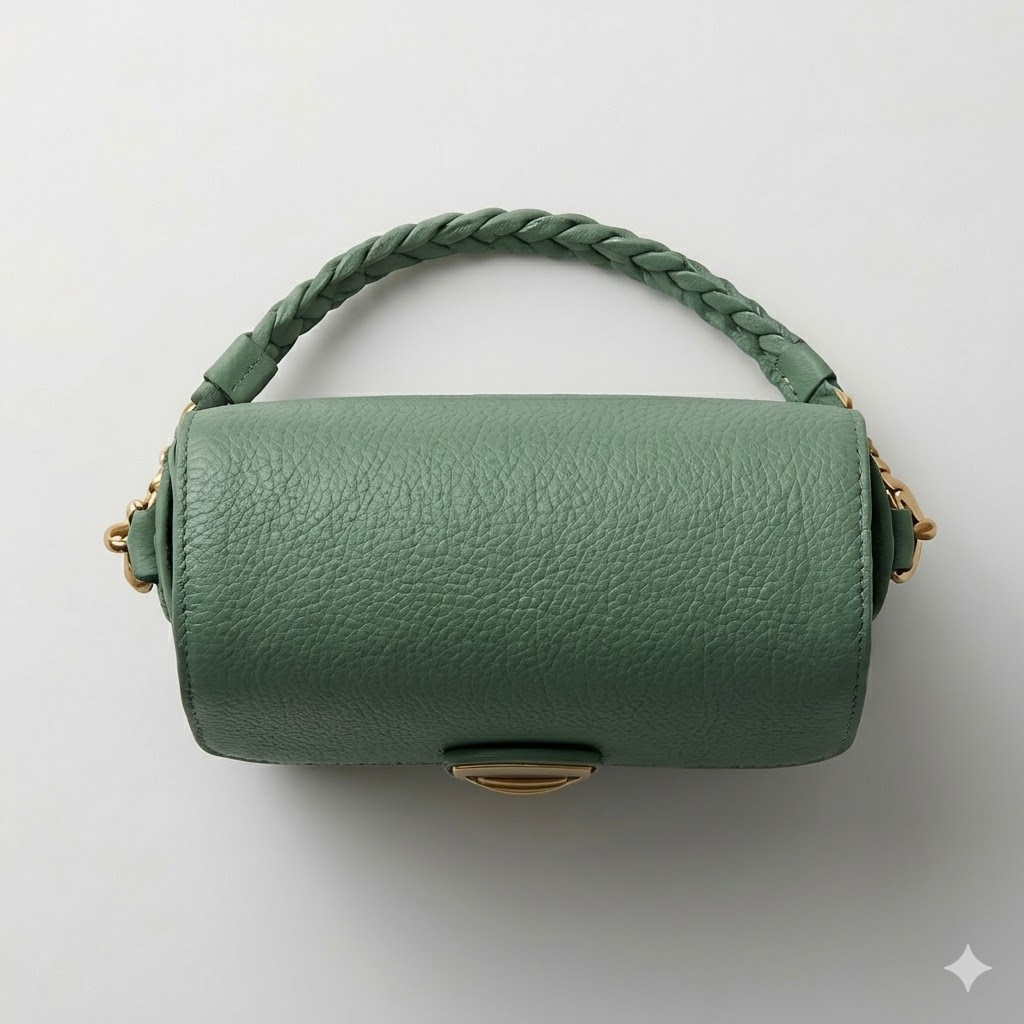
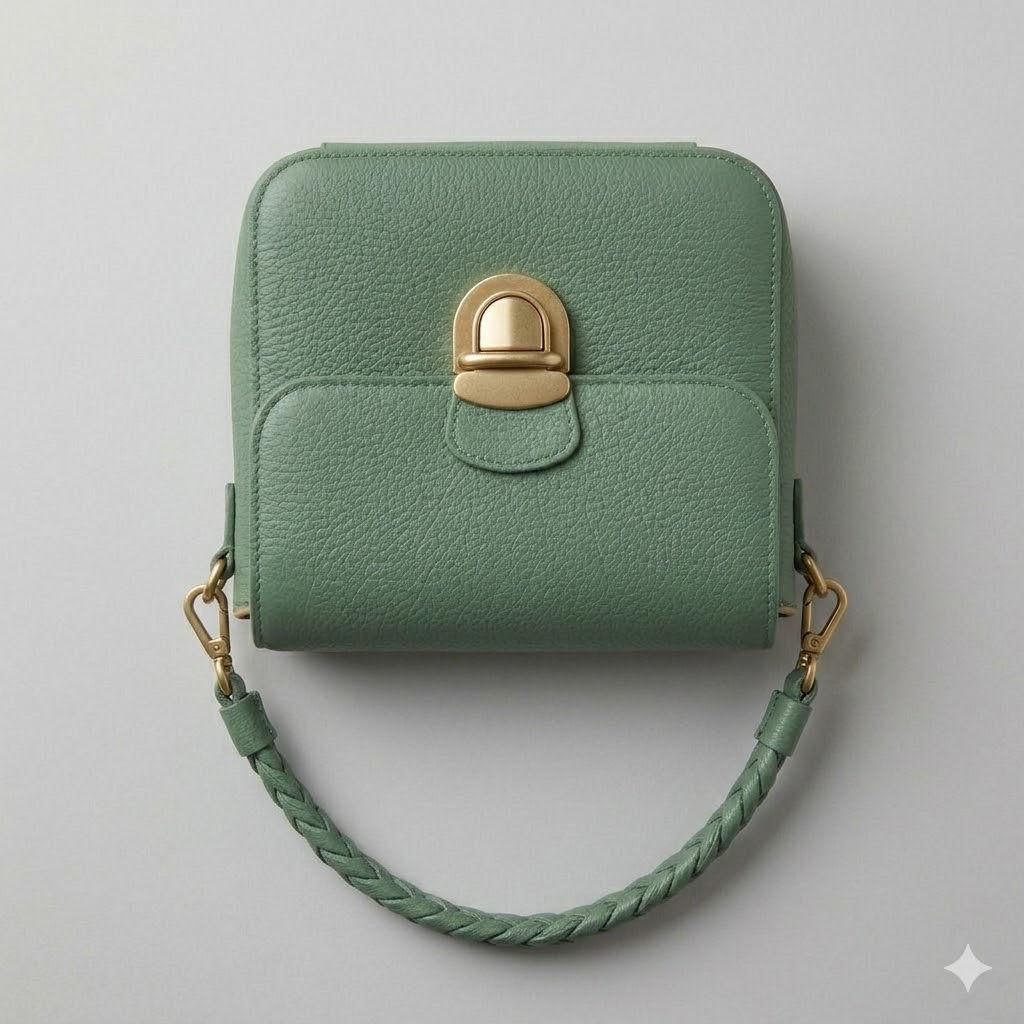
add the limitation on themed img & enhance img

diff --git a/frontend/PictoryAI/src/components/inhance_img/Range.js b/frontend/PictoryAI/src/components/inhance_img/Range.js
@@ -1,0 +1,24 @@
+import { useState } from "react";
+import "../../css/inhance_img/ColorPickerAndRangeStyle.css";
+
+function Range({ title2 ,text , maxValue , minValue  ,  range , setRange}) {
+    return (
+        <div className="color-range-box">
+            <p>{title2}</p>
+
+            <div className="range-row">
+                <span className="range-value">{range} {text}</span>
+                <input
+                    type="range"
+                    min={minValue}
+                    max={maxValue}
+                    value={range}
+                    onChange={(e) => setRange(e.target.value)}
+                    className="range-input"
+                />
+            </div>
+        </div>
+    );
+}
+
+export default Range;

diff --git a/frontend/PictoryAI/src/pages/InhanceImgPage.js b/frontend/PictoryAI/src/pages/InhanceImgPage.js
@@ -6,7 +6,6 @@ import Hero from "../components/ReusableHero";
 
 function App() {
     const [isPro, setIsPro] = useState(false);
-    const [loadingPlan, setLoadingPlan] = useState(true);
 
     useEffect(() => {
         const fetchSubscription = async () => {
@@ -21,8 +20,6 @@ function App() {
                 setIsPro(data.isPro);
             } catch (error) {
                 setIsPro(false);
-            } finally {
-                setLoadingPlan(false);
             }
         };
 
@@ -35,7 +32,6 @@ function App() {
         audience: "",
         productDescription: "",
         background: "",
-        backgroundColor: "",
         backgroundBlur: 0,
         lightType: "",
         styleType: "",
@@ -61,11 +57,6 @@ function App() {
             settings.extraPrompt !== "" &&
             (isPro ? settings.imageRatio !== "" : true)
         );
-    }
-
-    // ── Loading state ────────────────────────────────────
-    if (loadingPlan) {
-        return <div className="text-center mt-5">Loading...</div>;
     }
 
     return (

diff --git a/frontend/PictoryAI/src/components/inhance_img/BackgroundPlane.js b/frontend/PictoryAI/src/components/inhance_img/BackgroundPlane.js
@@ -1,5 +1,5 @@
 import Group from "./Group";
-import ColorPickerAndRange from "./ColorPickerAndRange";
+import Range from "./Range";
 import sea from "../../assets/inhance_img/backgrounds/Sea.jpg";
 import mountains from "../../assets/inhance_img/backgrounds/Mountains.jpg";
 import forest from "../../assets/inhance_img/backgrounds/Forest.jpg";
@@ -41,14 +41,11 @@ function BackgroundPlane({ settings, updateSetting }) {
                 onClick={(v) => updateSetting("background", v)}
                 selected={settings.background}
             />
-            <ColorPickerAndRange
-                title1='Background Color (Optional)'
+            <Range
                 title2='Background Blur (Optional)'
                 text=''
                 maxValue={10}
                 minValue={0}
-                color={settings.backgroundColor}
-                setColor={(v) => updateSetting("backgroundColor", v)}
                 range={settings.backgroundBlur}
                 setRange={(v) => updateSetting("backgroundBlur", v)}
             />

diff --git a/frontend/PictoryAI/src/components/inhance_img/ExtraPlane.js b/frontend/PictoryAI/src/components/inhance_img/ExtraPlane.js
@@ -13,9 +13,6 @@ import { useNavigate } from "react-router-dom";
 const angles = [
     { name: 'Front',      image: Front },
     { name: '45° Angle',  image: Angle45 },
-    { name: 'Flat Lay',   image: FlatLay },
-    { name: 'Side',       image: Side },
-    { name: 'Top',        image: Top },
 ];
 
 function ExtraPlane({ isPro, settings, updateSetting }) {

diff --git a/backend/laravel-app/app/Http/Controllers/ImageEditController.php b/backend/laravel-app/app/Http/Controllers/ImageEditController.php
@@ -1,7 +1,7 @@
 <?php
 
 namespace App\Http\Controllers;
-
+use Illuminate\Support\Facades\DB;
 use Illuminate\Http\Request;
 use Illuminate\Support\Facades\Http;
 use Illuminate\Support\Facades\Validator;
@@ -19,7 +19,6 @@ class ImageEditController extends Controller
             'product_description'  => 'nullable|string|max:1000',
 
             'background_type'      => 'required|string|max:500',
-            'background_color'     => ['nullable', 'regex:/^#[0-9A-Fa-f]{6}$/'],
             'background_blur'      => 'required|integer|min:0|max:10',
 
             'light_type'           => 'required|string|max:255',
@@ -54,6 +53,30 @@ class ImageEditController extends Controller
             ], 401);
         }
 
+        $subscription = $user->subscriptions()
+            ->where('status', 'active')
+            ->latest()
+            ->first();
+
+        $planId = $subscription?->plan_id ?? 1;
+
+        if ($planId == 1) { // free plan
+            $usageCounter = $user->usageCounters()
+                ->where('type', 'enhance_image')
+                ->where('year', now()->year)
+                ->where('month', now()->month)
+                ->first();
+
+            $used = $usageCounter?->used ?? 0;
+
+            if ($used >= 3) {
+                return response()->json([
+                    'success' => false,
+                    'message' => 'You have reached the maximum limit of 3 generations for the free plan.',
+                ], 403);
+            }
+        }
+
         $falKey = config('services.fal.key');
 
         if (!$falKey) {
@@ -76,11 +99,11 @@ class ImageEditController extends Controller
             $imageDataUri = "data:{$mimeType};base64,{$base64Image}";
 
             $sizeMapping = [
-                '1:1'   => 'square_hd',
-                '16:9'  => 'landscape_16_9',
-                '9:16'  => 'portrait_16_9',
-                '4:5'   => 'portrait_4_5',
-                '3:4'   => 'portrait_4_5',
+                '1:1'  => 'square_hd',
+                '16:9' => 'landscape_16_9',
+                '9:16' => 'portrait_16_9',
+                '4:5'  => 'portrait_4_3',
+                '3:4'  => 'portrait_4_3',
             ];
 
             $userSize = $request->input('image_ratio', '1:1');
@@ -151,7 +174,6 @@ class ImageEditController extends Controller
                 'product_description' => $request->product_description,
 
                 'background_type'     => $request->background_type,
-                'background_color'    => $request->background_color ?? '#ffffff',
                 'background_blur'     => $request->background_blur,
 
                 'light_type'          => $request->light_type,
@@ -167,6 +189,18 @@ class ImageEditController extends Controller
 
                 'extra_prompt'        => $request->extra_prompt,
             ]);
+
+
+            if ($planId == 1) {
+                $user->usageCounters()->updateOrCreate(
+                    [
+                        'type'  => 'enhance_image',
+                        'year'  => now()->year,
+                        'month' => now()->month,
+                    ],
+                    ['used' => DB::raw('used + 1')]
+                );
+            }
 
             foreach ($editedUrls as $index => $url) {
                 $requestModel->responses()->create([
@@ -204,7 +238,6 @@ class ImageEditController extends Controller
         $audience = trim((string)$request->input('target_audience', ''));
         $description = trim((string)$request->input('product_description', ''));
         $background = trim((string)$request->input('background_type', ''));
-        $backgroundColor = trim((string)$request->input('background_color', ''));
         $backgroundBlur = $request->input('background_blur');
         $lighting = trim((string)$request->input('light_type', 'soft studio lighting'));
         $photoStyle = trim((string)$request->input('style_type', 'luxury commercial photography'));
@@ -229,10 +262,6 @@ class ImageEditController extends Controller
         }
 
         $bgDesc = $background;
-
-        if ($backgroundColor) {
-            $bgDesc .= " with {$backgroundColor} tone";
-        }
 
         if ($bgDesc) {
             $prompt .= " Background is " . trim($bgDesc) . ".";

diff --git a/backend/laravel-app/app/Http/Controllers/ThemedImageController.php b/backend/laravel-app/app/Http/Controllers/ThemedImageController.php
@@ -5,6 +5,7 @@ namespace App\Http\Controllers;
 use Illuminate\Http\Request;
 use Illuminate\Support\Facades\Validator;
 use Illuminate\Support\Facades\Http;
+use Illuminate\Support\Facades\DB;
 
 class ThemedImageController extends Controller
 {
@@ -36,6 +37,30 @@ class ThemedImageController extends Controller
             ], 401);
         }
 
+        $subscription = $user->subscriptions()
+            ->where('status', 'active')
+            ->latest()
+            ->first();
+
+        $planId = $subscription?->plan_id ?? 1;
+
+        if ($planId == 1) {
+            $usageCounter = $user->usageCounters()
+                ->where('type', 'themed_image')
+                ->where('year', now()->year)
+                ->where('month', now()->month)
+                ->first();
+
+            $used = $usageCounter?->used ?? 0;
+
+            if ($used >= 3) {
+                return response()->json([
+                    'success' => false,
+                    'message' => 'You have reached the maximum limit of 3 generations for the free plan.',
+                ], 403);
+            }
+        }
+
         $falKey = config('services.fal.key');
 
         if (!$falKey) {
@@ -59,11 +84,11 @@ class ThemedImageController extends Controller
 
 
             $sizeMapping = [
-                '1:1'   => 'square_hd',
-                '16:9'  => 'landscape_16_9',
-                '9:16'  => 'portrait_16_9',
-                '4:5'   => 'portrait_4_5',
-                '3:4'   => 'portrait_4_5',
+                '1:1'  => 'square_hd',
+                '16:9' => 'landscape_16_9',
+                '9:16' => 'portrait_16_9',
+                '4:5'  => 'portrait_4_3',
+                '3:4'  => 'portrait_4_3',
             ];
 
             $userSize = $request->input('image_size', '1:1');
@@ -131,6 +156,17 @@ class ThemedImageController extends Controller
                 'image_size'          => $request->image_size,
                 'optional_text'       => $request->optional_text,
             ]);
+
+            if ($planId == 1) {
+                $user->usageCounters()->updateOrCreate(
+                    [
+                        'type'  => 'themed_image',
+                        'year'  => now()->year,
+                        'month' => now()->month,
+                    ],
+                    ['used' => DB::raw('used + 1')]
+                );
+            }
 
             foreach ($editedUrls as $index => $url) {
                 $requestModel->responses()->create([

diff --git a/backend/laravel-app/database/migrations/2026_05_13_171028_fix_background_color_nullable.php b/backend/laravel-app/database/migrations/2026_05_13_171028_fix_background_color_nullable.php
@@ -1,0 +1,28 @@
+<?php
+
+use Illuminate\Database\Migrations\Migration;
+use Illuminate\Database\Schema\Blueprint;
+use Illuminate\Support\Facades\Schema;
+
+return new class extends Migration
+{
+    /**
+     * Run the migrations.
+     */
+    public function up()
+    {
+        Schema::table('enhance_image_requests', function (Blueprint $table) {
+            $table->string('background_color')->nullable()->change();
+        });
+    }
+
+    /**
+     * Reverse the migrations.
+     */
+    public function down(): void
+    {
+        Schema::table('enhance_image_requests', function (Blueprint $table) {
+            //
+        });
+    }
+};